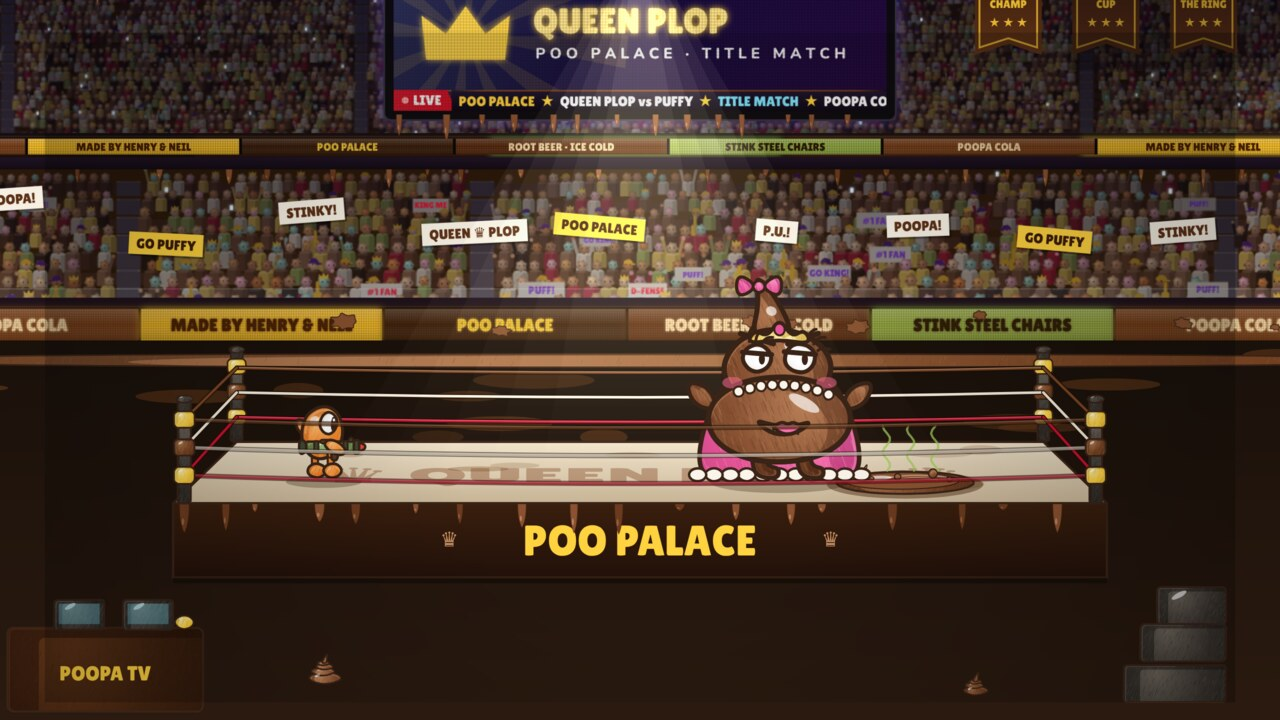
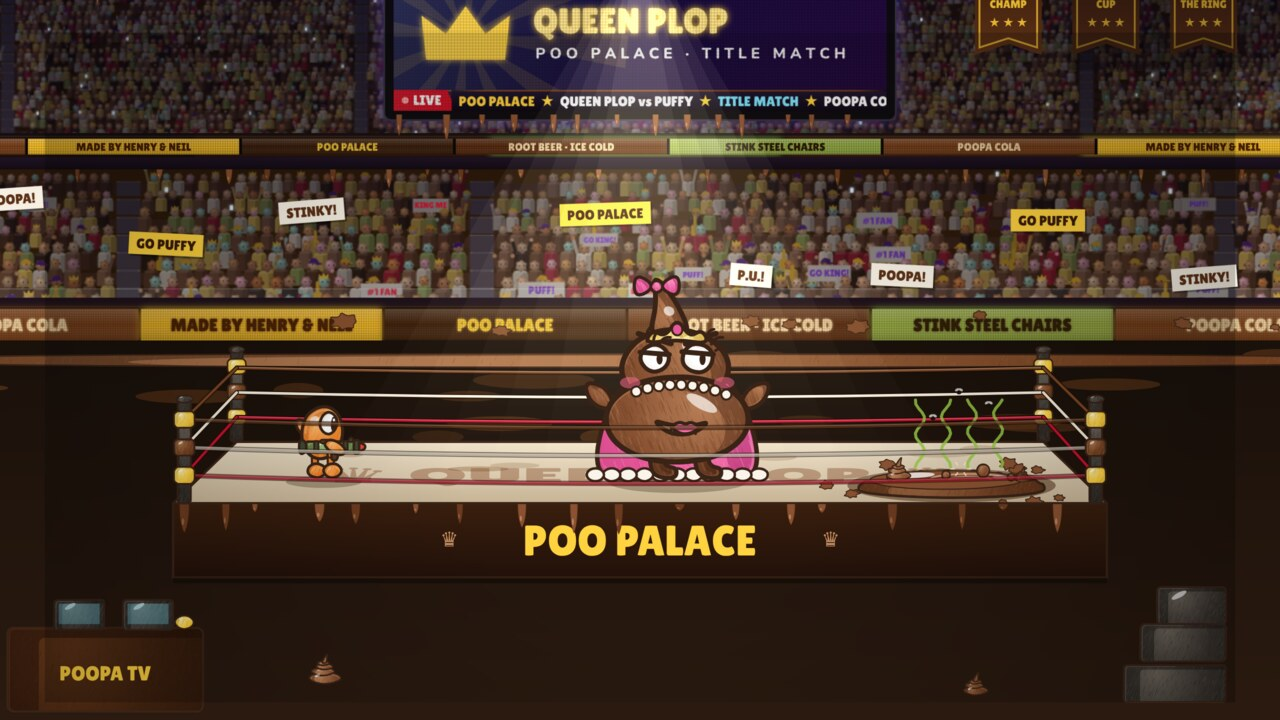
Sketches: Poo Palace v2 (Queen Plop, 8 hits + scoreboard countdown, hearts + nuggies, King cutscene) and the fight design
Claude-Session: https://claude.ai/code/session_01J77fP5avCCtqdyudLnsw4o

diff --git a/sketches/wrestling/concept.ts b/sketches/wrestling/concept.ts
@@ -115,6 +115,7 @@ function arenaBackdrop(jumbo: JumboContent, excited: boolean) {
   const signs = ['POOPA!', 'GO PUFFY', 'STINKY!', 'QUEEN ♛ PLOP', 'POO PALACE', 'P.U.!'];
   for (let i = 0; i < 9; i++) {
     const x = -60 + i * 160 + r() * 50;
+    if (i === 3) continue; // (clear of the tunnel out of the stands)
     const y = 175 + r() * 90;
     sign(ctx, x, y, signs[i % signs.length], i % 3 === 1 ? '#ffd23f' : '#f6efe2', i % 3 === 1 ? '#3a1d0c' : '#5c3118', (r() - 0.5) * 0.18);
   }
@@ -228,7 +229,7 @@ function ringBack(ctx: Ctx) {
     ctx.fill();
   }
   // a poo puddle in the far-right corner of the mat (a hazard: slows you, like the level's puddles)
-  pooPuddle(ctx, 925, R.floorY + 3);
+  pooPuddle(ctx, 975, R.floorY + 3);
   // the skirt (the front face of the ring) with the show's name
   flat(ctx, [[R.x0 - 12, R.frontY], [R.x1 + 12, R.frontY], [R.x1 + 12, R.skirtY], [R.x0 - 12, R.skirtY]], '#3a1f0e', '#22110a', R.frontY, R.skirtY);
   ctx.fillStyle = '#ffd23f';
@@ -282,40 +283,81 @@ function ringside(ctx: Ctx) {
 
 /** The poo puddle on the mat: big, glossy, bubbling and stinking (you can't miss it). */
 function pooPuddle(ctx: Ctx, x: number, y: number) {
-  // a dark rim where it's soaked into the mat, then the glossy poo, raised a little
-  ctx.fillStyle = 'rgba(70,35,12,0.45)';
+  const r = rng(31);
+  // splats flung out round it across the mat
+  for (let i = 0; i < 9; i++) {
+    const a = r() * Math.PI * 2;
+    const d = 112 + r() * 40;
+    splat(ctx, x + Math.cos(a) * d, y + Math.sin(a) * d * 0.16, 5 + r() * 6, r);
+  }
+  // a dark wet stain soaked into the mat, then a big glossy heap of poo, bulging up
+  ctx.fillStyle = 'rgba(70,35,12,0.5)';
   ctx.beginPath();
-  ctx.ellipse(x, y + 1, 84, 15, 0, 0, Math.PI * 2);
+  ctx.ellipse(x, y + 2, 112, 18, 0, 0, Math.PI * 2);
   ctx.fill();
-  ST.shape(ctx, ellipsePts(x, y - 1, 74, 12, 0, 40), POO_DARK, 21, { lw: 1.1 });
-  ST.shape(ctx, ellipsePts(x - 4, y - 3, 62, 9, 0, 40), POO, 22, { lw: 0.6, plain: true });
-  // ripples, shine and bubbles
-  ctx.strokeStyle = 'rgba(255,230,200,0.45)';
-  ctx.lineWidth = 1.4;
-  for (const [rx, ry] of [[22, 3.5], [38, 6]]) {
+  const heap: Pt[] = [];
+  for (let i = 0; i <= 40; i++) {
+    const t = (i / 40) * Math.PI;
+    // the top edge lumpy, the bottom edge flat on the mat
+    heap.push([x - Math.cos(t) * 100, y + 4 - Math.sin(t) * (16 + Math.sin(i * 1.7) * 3)]);
+  }
+  for (let i = 40; i >= 0; i--) heap.push([x - Math.cos((i / 40) * Math.PI) * 100, y + 6 + Math.sin((i / 40) * Math.PI) * 9]);
+  ST.shape(ctx, heap, POO_DARK, 21, { lw: 1.4, light: [x - 40, y - 20] });
+  ST.shape(ctx, ellipsePts(x - 6, y - 4, 82, 10, 0, 40), POO, 22, { lw: 0.6, plain: true });
+  // ripples and a big wet shine
+  ctx.strokeStyle = 'rgba(255,230,200,0.55)';
+  ctx.lineWidth = 1.8;
+  for (const [rx, ry] of [[24, 3.5], [44, 6.5]]) {
     ctx.beginPath();
-    ctx.ellipse(x + 14, y - 3, rx, ry, 0, Math.PI * 1.1, Math.PI * 1.9);
+    ctx.ellipse(x + 20, y - 4, rx, ry, 0, Math.PI * 1.1, Math.PI * 1.9);
     ctx.stroke();
   }
-  ctx.fillStyle = '#ffffffaa';
+  ctx.fillStyle = '#ffffffcc';
   ctx.beginPath();
-  ctx.ellipse(x - 30, y - 6, 16, 2.6, -0.05, 0, Math.PI * 2);
+  ctx.ellipse(x - 40, y - 9, 22, 3, -0.05, 0, Math.PI * 2);
   ctx.fill();
-  for (const [bx, by, br] of [[x + 30, y - 6, 5], [x - 8, y - 4, 3.5], [x + 48, y - 2, 3]]) ST.shape(ctx, ellipsePts(bx, by - br, br, br, 0, 14), POO, Math.round(bx), { lw: 0.7, light: [bx - br / 2, by - br * 1.5] });
-  // a swirl poking up out of it, and stink
-  drawPooSwirl(ctx, x - 44, y - 2, 20, POO, 23);
-  ctx.strokeStyle = 'rgba(160,200,90,0.75)';
-  ctx.lineWidth = 2.4;
-  ctx.lineCap = 'round';
-  for (const sx of [x - 20, x + 6, x + 32]) {
+  ctx.beginPath();
+  ctx.ellipse(x + 52, y - 7, 8, 2, 0, 0, Math.PI * 2);
+  ctx.fill();
+  // bubbles (one popping)
+  for (const [bx, by, br] of [[x + 34, y - 7, 7], [x - 6, y - 5, 4.5], [x + 64, y - 3, 4], [x - 66, y - 3, 3.5]])
+    ST.shape(ctx, ellipsePts(bx, by - br, br, br, 0, 16), POO, Math.round(bx), { lw: 0.8, light: [bx - br / 2, by - br * 1.5] });
+  ctx.strokeStyle = 'rgba(255,230,200,0.8)';
+  ctx.lineWidth = 1.6;
+  for (let k = 0; k < 6; k++) {
+    const a = (k / 6) * Math.PI * 2;
     ctx.beginPath();
-    for (let k = 0; k <= 12; k++) {
-      const yy = y - 14 - k * 4;
-      const xx = sx + Math.sin(k * 0.9 + sx) * 4;
+    ctx.moveTo(x + 10 + Math.cos(a) * 7, y - 16 + Math.sin(a) * 5);
+    ctx.lineTo(x + 10 + Math.cos(a) * 11, y - 16 + Math.sin(a) * 8);
+    ctx.stroke();
+  }
+  // swirls poking up out of it, and a big cloud of stink (with flies)
+  drawPooSwirl(ctx, x - 58, y - 4, 26, POO, 23);
+  drawPooSwirl(ctx, x + 76, y - 2, 18, POO_DARK, 24);
+  ctx.strokeStyle = 'rgba(150,200,70,0.85)';
+  ctx.lineWidth = 3.2;
+  ctx.lineCap = 'round';
+  for (const sx of [x - 34, x - 6, x + 22, x + 50]) {
+    ctx.beginPath();
+    for (let k = 0; k <= 16; k++) {
+      const yy = y - 18 - k * 4.5;
+      const xx = sx + Math.sin(k * 0.8 + sx) * 5;
       if (k) ctx.lineTo(xx, yy);
       else ctx.moveTo(xx, yy);
     }
     ctx.stroke();
+  }
+  ctx.fillStyle = '#1a120c';
+  for (const [fx, fy] of [[x - 20, y - 70], [x + 40, y - 84], [x + 8, y - 98]]) {
+    ctx.beginPath();
+    ctx.ellipse(fx, fy, 2.6, 2, 0, 0, Math.PI * 2);
+    ctx.fill();
+    ctx.fillStyle = 'rgba(255,255,255,0.7)';
+    ctx.beginPath();
+    ctx.ellipse(fx - 2, fy - 3, 2.4, 1.4, -0.5, 0, Math.PI * 2);
+    ctx.ellipse(fx + 2, fy - 3, 2.4, 1.4, 0.5, 0, Math.PI * 2);
+    ctx.fill();
+    ctx.fillStyle = '#1a120c';
   }
 }
 
@@ -559,6 +601,9 @@ function healthBars(ctx: Ctx, you: number, boss: number, nugs = 2) {
   ctx.fillStyle = '#ffd23f';
   ctx.fillText('× ' + nugs, 266, 49);
   bar(870, 380, 'QUEEN PLOP', boss, '#e8579a', true);
+  // 8 hits to beat her: the bar is in 8 pieces
+  ctx.fillStyle = 'rgba(20,10,4,0.85)';
+  for (let k = 1; k < 8; k++) ctx.fillRect(870 + (380 * k) / 8 - 1.5, 48, 3, 16);
 }
 
 function heart(ctx: Ctx, x: number, y: number, r: number, full: boolean) {
@@ -690,7 +735,7 @@ export async function render() {
   await document.fonts.ready;
   const out: Record<string, HTMLCanvasElement> = {};
   const title = arenaBackdrop({ kind: 'title' }, false);
-  const loud = arenaBackdrop({ kind: 'big', text: 'OH NO HE DIDN’T!', sub: 'PUFFY OFF THE TOP ROPE', color: '#ffd23f', bg: '#5c3118' }, true);
+  const loud = arenaBackdrop({ kind: 'big', text: '3 HITS TO GO', sub: 'OFF THE TOP ROPE: THAT ONE COUNTS DOUBLE', color: '#ffd23f', bg: '#5c3118' }, true);
   const count = arenaBackdrop({ kind: 'big', text: 'K.O.!', sub: 'NEW CHAMPION', color: '#ffd23f', bg: '#2a6a1a' }, true);
   const R = RING;
 
@@ -699,14 +744,14 @@ export async function render() {
     ringBack(ctx);
     spot(ctx, 640, -90, R.frontY, 700, 0.08);
     hero(ctx, 'puffy', 300, R.floorY, 'idle0');
-    king(ctx, 790, R.floorY, 'grin');
+    king(ctx, 680, R.floorY, 'grin');
     ringFront(ctx);
     ringside(ctx);
     vignette(ctx, 0.35);
   });
 
   // 2. A moment mid-fight (the camera a little closer, following the action)
-  out.fight = frame(loud, 1.12, 640, 400, (ctx) => {
+  out.fight = frame(loud, 0.98, 640, 318, (ctx) => {
     ringBack(ctx);
     spot(ctx, 470, -90, R.frontY, 380, 0.1);
     spot(ctx, 860, -90, R.frontY, 420, 0.09);
@@ -740,7 +785,7 @@ export async function render() {
     ringFront(ctx);
     ringside(ctx);
     vignette(ctx, 0.3);
-  }, (ctx) => healthBars(ctx, 2, 0.38, 2));
+  }, (ctx) => healthBars(ctx, 2, 3 / 8, 2));
 
   // 3. The ring as a level: what each part does
   out.plan = frame(title, 0.93, 640, 352, (ctx) => {
@@ -766,7 +811,7 @@ export async function render() {
     tag(ctx, 640, R.floorY, '1', 'The mat = the floor. The whole fight\nis normal 2D along this one line.', 640, 610);
     tag(ctx, R.x1, R.frontY - R.post, '2', 'Climb the ropes to the top turnbuckle;\ndive off and hit her: counts double', 1010, 150);
     tag(ctx, 500, R.frontY - 60, '3', 'Ropes: run into them and\nbounce back fast (springboard)', 360, 250);
-    tag(ctx, 800, R.floorY - 150, '8', 'Queen Plop: jumps a lot, aggressive;\nbacks off when you climb the ropes', 830, 245);
+    tag(ctx, 800, R.floorY - 150, '8', 'Queen Plop: 8 hits to win (the scoreboard\ncounts them down); jumps a lot, aggressive;\nbacks off when you climb the ropes', 830, 245);
     tag(ctx, 960, R.floorY, '4', 'Poo puddle: sinks you\nlike the level', 1060, 420);
     tag(ctx, 1190, 690, '5', 'Fall off = ringside floor;\nclimb the steps back in', 1000, 560);
     tag(ctx, 80, 650, '6', 'Announce table + steel steps:\nringside props to jump on', 240, 470);
@@ -828,9 +873,12 @@ export async function render() {
     bubble2(ctx, 800, 170, ['“Nice work…', 'but you’ll never out-wrestle', 'THE KING!”']);
   });
 
-  // 6. …then the camera pulls right out: there's the King, up in the stands, and he RUNS
+  // 6. …then the camera pulls right out, finds the King, and zooms in on him: he's down on the
+  // arena floor by the exit tunnel (he was watching the whole time), and he RUNS
   const king2 = arenaBackdrop({ kind: 'big', text: 'THE KING?!', sub: 'HE WAS HERE ALL ALONG', color: '#ffd23f', bg: '#3d1478' }, true);
-  out.king = frame(king2, 0.8, 640, 330, (ctx) => {
+  // (he's in the front row of the stands, behind the LED boards, heading for the tunnel out)
+  const KX = 548;
+  const kingScene = (ctx: Ctx) => {
     ringBack(ctx);
     shadow(ctx, 760, R.floorY, 92);
     ctx.save();
@@ -842,30 +890,59 @@ export async function render() {
     hero(ctx, 'puffy', 520, R.floorY, 'idle0', 1.7, true);
     ringFront(ctx);
     ringside(ctx);
-    ctx.fillStyle = 'rgba(5,2,0,0.45)';
-    ctx.fillRect(-260, -190, 1800, 1100);
-    // the King in an aisle of the lower bowl, caught in a follow-spot, running for the exit
-    spot(ctx, 1235, -150, 300, 200, 0.26);
-    ctx.fillStyle = '#0b0705';
-    ctx.fillRect(1290, 196, 90, 104);
-    ctx.fillStyle = '#ffd23f';
-    ctx.font = `400 16px ${FONT}`;
+    // the tunnel out of the lower bowl at the top of an aisle (a dark opening, an EXIT sign)
+    const tx = 470;
+    ctx.fillStyle = '#050302';
+    ctx.beginPath();
+    ctx.moveTo(tx - 24, 297);
+    ctx.lineTo(tx - 24, 236);
+    ctx.quadraticCurveTo(tx, 222, tx + 24, 236);
+    ctx.lineTo(tx + 24, 297);
+    ctx.fill();
+    ctx.strokeStyle = '#3b3530';
+    ctx.lineWidth = 3;
+    ctx.stroke();
+    ctx.fillStyle = '#1d6b2a';
+    ctx.fillRect(tx - 15, 208, 30, 11);
+    ctx.fillStyle = '#eafff0';
+    ctx.font = `400 9px ${FONT}`;
     ctx.textAlign = 'center';
-    ctx.fillText('EXIT', 1335, 190);
+    ctx.textBaseline = 'middle';
+    ctx.fillText('EXIT', tx, 214);
+    // the King, running along the front row for it (the boards hide his feet, like everyone's)
     ctx.save();
-    ctx.translate(1235, 300);
-    ctx.scale(-1.15, 1.15);
+    ctx.translate(KX, 300);
+    ctx.scale(0.62, 0.62);
     drawPlop(ctx, -50, -100, 'run1', ST, 'king');
     ctx.restore();
-    ctx.fillStyle = 'rgba(255,255,255,0.6)';
-    for (let i = 0; i < 4; i++) ctx.fillRect(1150 - i * 22, 230 + i * 12, 46, 4);
+    ctx.fillStyle = 'rgba(255,255,255,0.75)';
+    for (let i = 0; i < 3; i++) ctx.fillRect(KX + 26 + i * 6, 262 + i * 9, 22, 2.2);
+  };
+  /** The LED boards along the front of the stands, drawn again over the King's feet. */
+  const boards = (ctx: Ctx, back: HTMLCanvasElement) => {
+    const y0 = 296;
+    const y1 = 332;
+    ctx.drawImage(back, 0, (y0 + STAGE_OY) * 2, back.width, (y1 - y0) * 2, -STAGE_OX, y0, ARENA_W, y1 - y0);
+  };
+  out.kingWide = frame(king2, 0.8, 640, 330, (ctx) => {
+    kingScene(ctx);
+    boards(ctx, king2);
+    ctx.fillStyle = 'rgba(5,2,0,0.4)';
+    ctx.fillRect(-260, -190, 1800, 1100);
+    spot(ctx, KX, -150, 330, 120, 0.3);
     ctx.strokeStyle = '#ffd23f';
-    ctx.lineWidth = 6;
+    ctx.lineWidth = 4;
     ctx.beginPath();
-    ctx.ellipse(1240, 250, 80, 80, 0, 0, Math.PI * 2);
+    ctx.ellipse(KX, 288, 48, 48, 0, 0, Math.PI * 2);
     ctx.stroke();
+  }, (ctx) => caption(ctx, '1 · The camera pulls out… who’s that in the front row?'));
+  out.king = frame(king2, 2.6, 520, 268, (ctx) => {
+    kingScene(ctx);
+    boards(ctx, king2);
+    spot(ctx, KX, -150, 330, 130, 0.22);
   }, (ctx) => {
-    caption(ctx, 'Zoom out… the King was watching. He runs out — end of the fight.');
+    bubble(ctx, 470, 120, '“THE KING?!”');
+    caption(ctx, '2 · …zooms in: the King! He runs for the exit. End of the fight.');
   });
   return out;
 }

diff --git a/sketches/wrestling/DESIGN.md b/sketches/wrestling/DESIGN.md
@@ -1,0 +1,60 @@
+# The Poo Palace: Queen Plop boss fight (end of Part 3)
+
+The concept screens are in this folder (`wide`, `plan`, `entrance`, `fight`, `finish`, `kingWide`, `king`).
+
+## The arena
+- The basketball arena (bowl, crowd, LED ribbon and boards, jumbotron, banners), restyled in
+  poo browns as the **Poo Palace**. Poo drips off the rafters, the jumbotron and the decks, and
+  there are splats on the boards. Fans hold signs (POOPA!, GO PUFFY, QUEEN ♛ PLOP, P.U.!).
+- A wrestling ring in the middle, with **POO PALACE** on its skirt and QUEEN PLOP on the mat.
+  The announce table (POOPA TV), steel steps and poo piles are on the floor around it.
+- A **poo puddle** in one corner of the mat. It sinks you like the puddles in the level.
+
+## The camera
+- The fight is filmed from the side, like a wrestling TV camera (`wide.jpg`). The crowd, boards
+  and jumbotron are already flat walls facing the camera, so a side-on fight sits in front of them naturally.
+- The fight is **normal 2D along one line across the mat**, with the same running, jumping,
+  bazooka and stomping as the rest of the game.
+- Layering: the back ropes and posts are behind the fighters, the **front ropes are see-through**
+  (so they never hide the fight), and the front posts are in front.
+- The camera sits a little closer and follows the action (`fight.jpg`). Cutscenes (her entrance and
+  the ending) use close-ups and zooms, like the basketball intro.
+
+## You
+- **3 hearts** (like Battle mode) plus your **nuggies**. A hit costs a nuggie first. Only with no
+  nuggies left does it cost a heart, and you're out when the hearts are gone. Nuggies turn up
+  during the fight.
+- **The ropes:**
+  - **Run into them and bounce off** fast, like a springboard.
+  - **Climb them to the top turnbuckle.** Climbing has to look and feel good (hand over hand, a
+    little sway). This is the part not to rush.
+  - **Jump off the top and land on her: that hit counts double** ("TOP ROPE! ×2").
+  - **Rope physics:** each rope is a springy line. It stretches where you hit it, sags under you as you
+    climb, and wobbles back when you let go. Launching off the top shakes all three ropes.
+    Each rope is a damped spring that bends at the contact point, so this is not too complex.
+- **Fall off the ring** to the floor beside it and climb the steel steps back in.
+
+## Queen Plop
+- A Plop queen: a pink royal cape with a pearl hem, a tiara, a bow on her swirl, long lashes,
+  pink lips, rosy cheeks and a string of pearls.
+- **Aggressive, and she jumps a lot** (hops, charges, slams).
+- **She backs off when she sees you on the ropes**, so you have to climb and jump off quickly.
+- **8 hits to beat her.** Her health bar is in 8 pieces, and **the jumbotron counts down** the hits
+  left ("3 HITS TO GO").
+- No referee: enough hits and she's done.
+
+## The ending (cutscene)
+1. The Queen is **on the mat, dazed** (stars circling): *"Nice work… but you'll never
+   out-wrestle THE KING!"* (`finish.jpg`)
+2. The camera **pulls right out** across the arena: someone's in the front row of the stands
+   (`kingWide.jpg`)…
+3. …and **zooms in: the King!** He was watching all along. The jumbotron flashes "THE KING?!" and
+   he runs for the exit tunnel (`king.jpg`). **That's the end of the battle.**
+
+## Building it (rough order)
+1. The arena and ring drawn at game size (reusing the basketball arena drawing), plus the side-on camera.
+2. The fight scene on the platformer's controls and physics, the mat as the floor, falling off to the floor beside the ring.
+3. **The ropes: bouncing, climbing, the top turnbuckle and rope physics** (tuned until they feel right).
+4. Queen Plop: her art and frames, her moves (jumps, charges, slams, backing off from the ropes), 8 hits.
+5. The HUD (hearts, nuggies, her 8-piece bar), the jumbotron countdown, nuggies during the fight.
+6. Her entrance, and the ending cutscene with the King.

diff --git a/sketches/wrestling/README.md b/sketches/wrestling/README.md
@@ -10,6 +10,9 @@ plus a side-on wrestling ring. To redraw them:
 - wide.jpg — the fight camera ("hard cam"): the whole ring side-on, arena behind
 - plan.jpg — the ring as a level (what each part does)
 - entrance.jpg — Queen Plop's entrance on the top turnbuckle
-- fight.jpg — mid-fight: 3 hearts + nuggies vs. her health bar; a top-rope dive counts double
+- fight.jpg — mid-fight: 3 hearts + nuggies vs. her 8-hit bar; the scoreboard counts down; a top-rope dive counts double
 - finish.jpg — the end: Queen Plop dazed on the mat ("Nice work… but you'll never out-wrestle THE KING!")
-- king.jpg — the camera pulls out: the King was watching from the stands, and runs out (end of the fight)
+- kingWide.jpg — the camera pulls out: someone in the front row of the stands…
+- king.jpg — …zooms in: the King! He runs for the exit tunnel (end of the fight)
+
+The whole fight design is in DESIGN.md.
